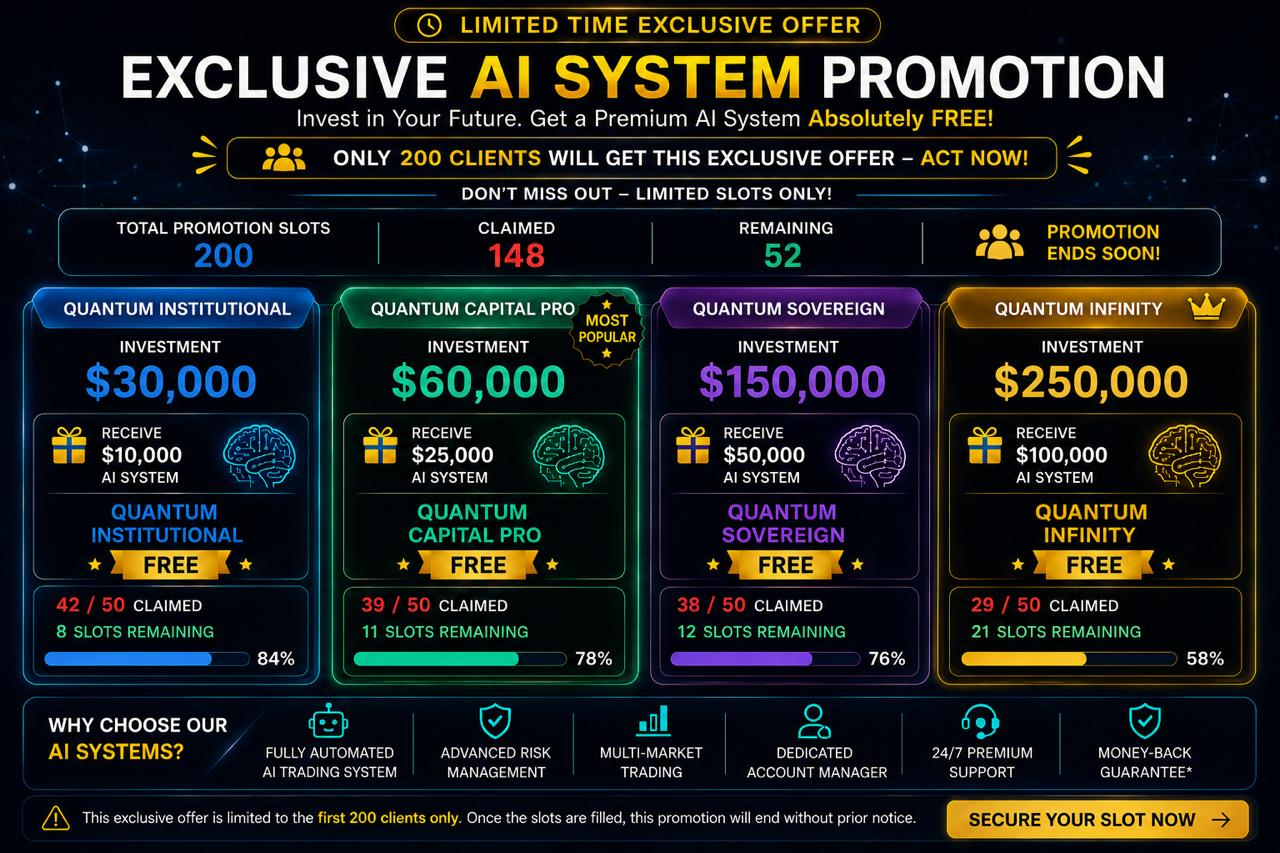
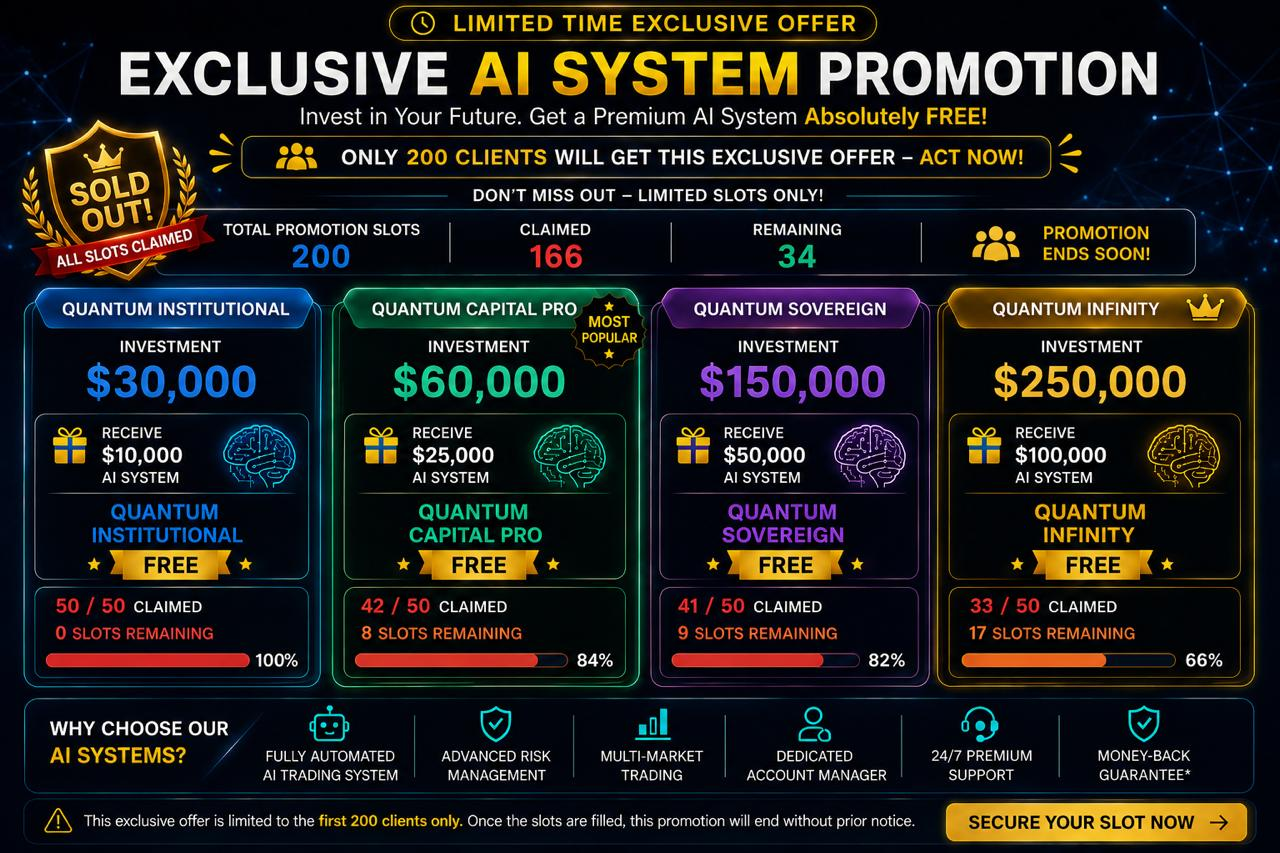
Quantum

diff --git a/src/pages/QuantumAI.jsx b/src/pages/QuantumAI.jsx
@@ -268,7 +268,7 @@ function QuantumAI() {
   ];
 
   const TOTAL_PROMOTIONAL_SLOTS = 200;
-  const TAKEN_SLOTS = 148;
+  const TAKEN_SLOTS = 166;
 
   const remainingSlots = Math.max(TOTAL_PROMOTIONAL_SLOTS - TAKEN_SLOTS, 0);
   const claimedPercentage = Math.min(Math.round((TAKEN_SLOTS / TOTAL_PROMOTIONAL_SLOTS) * 100), 100);
